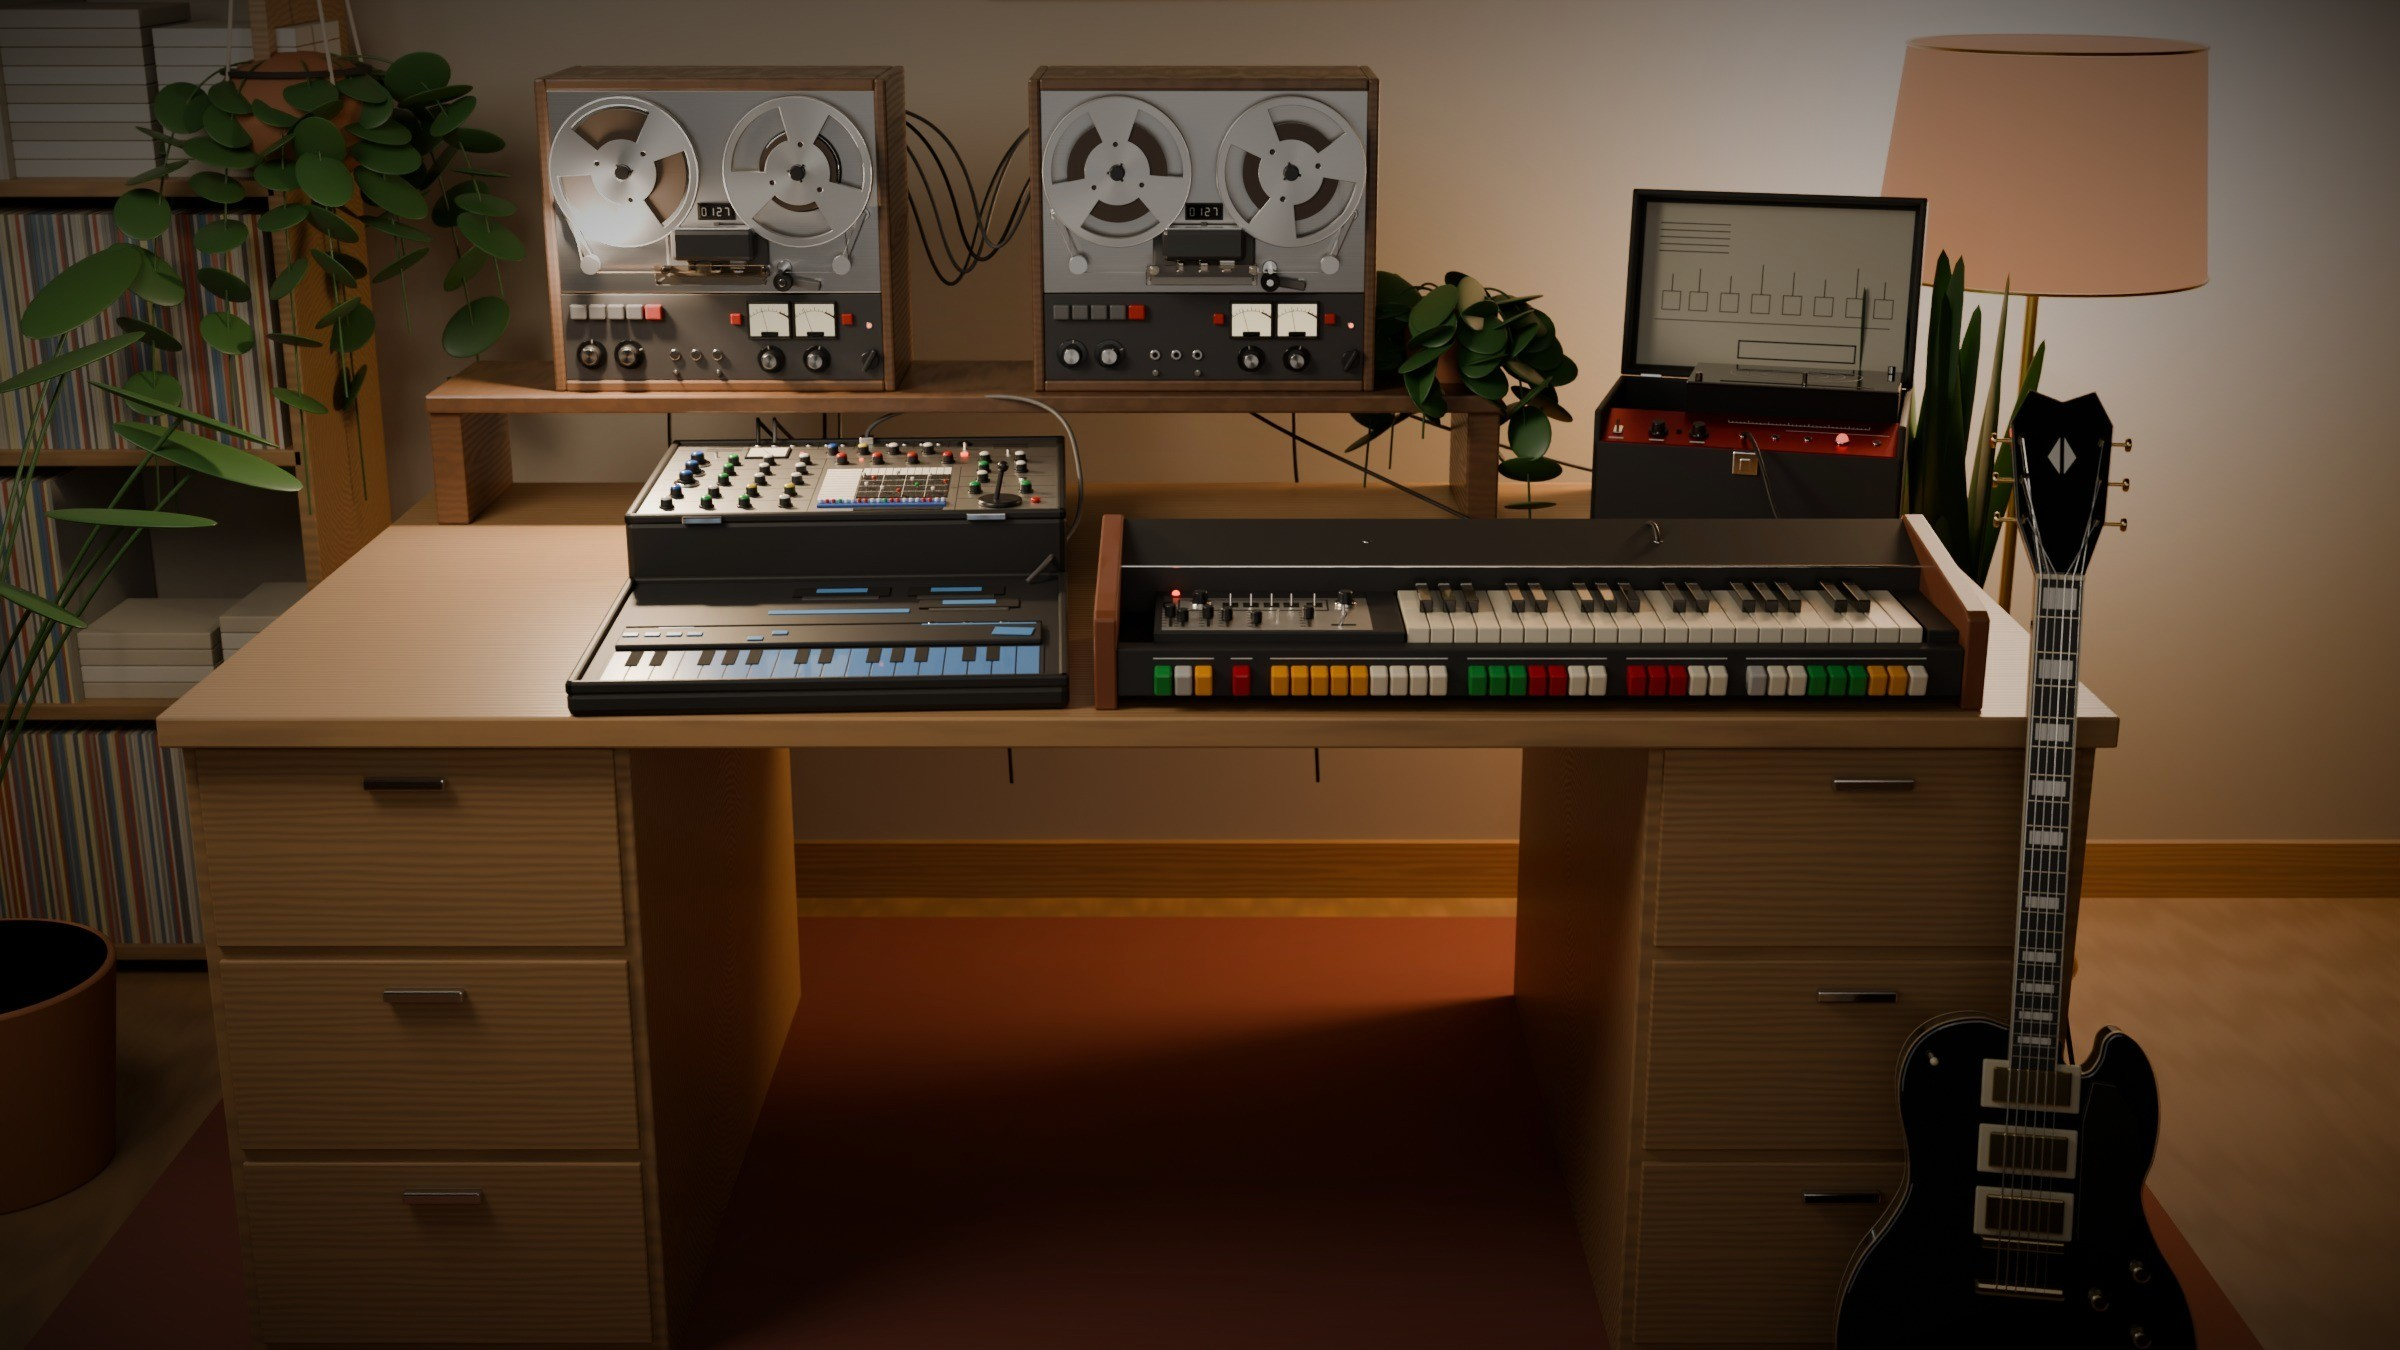
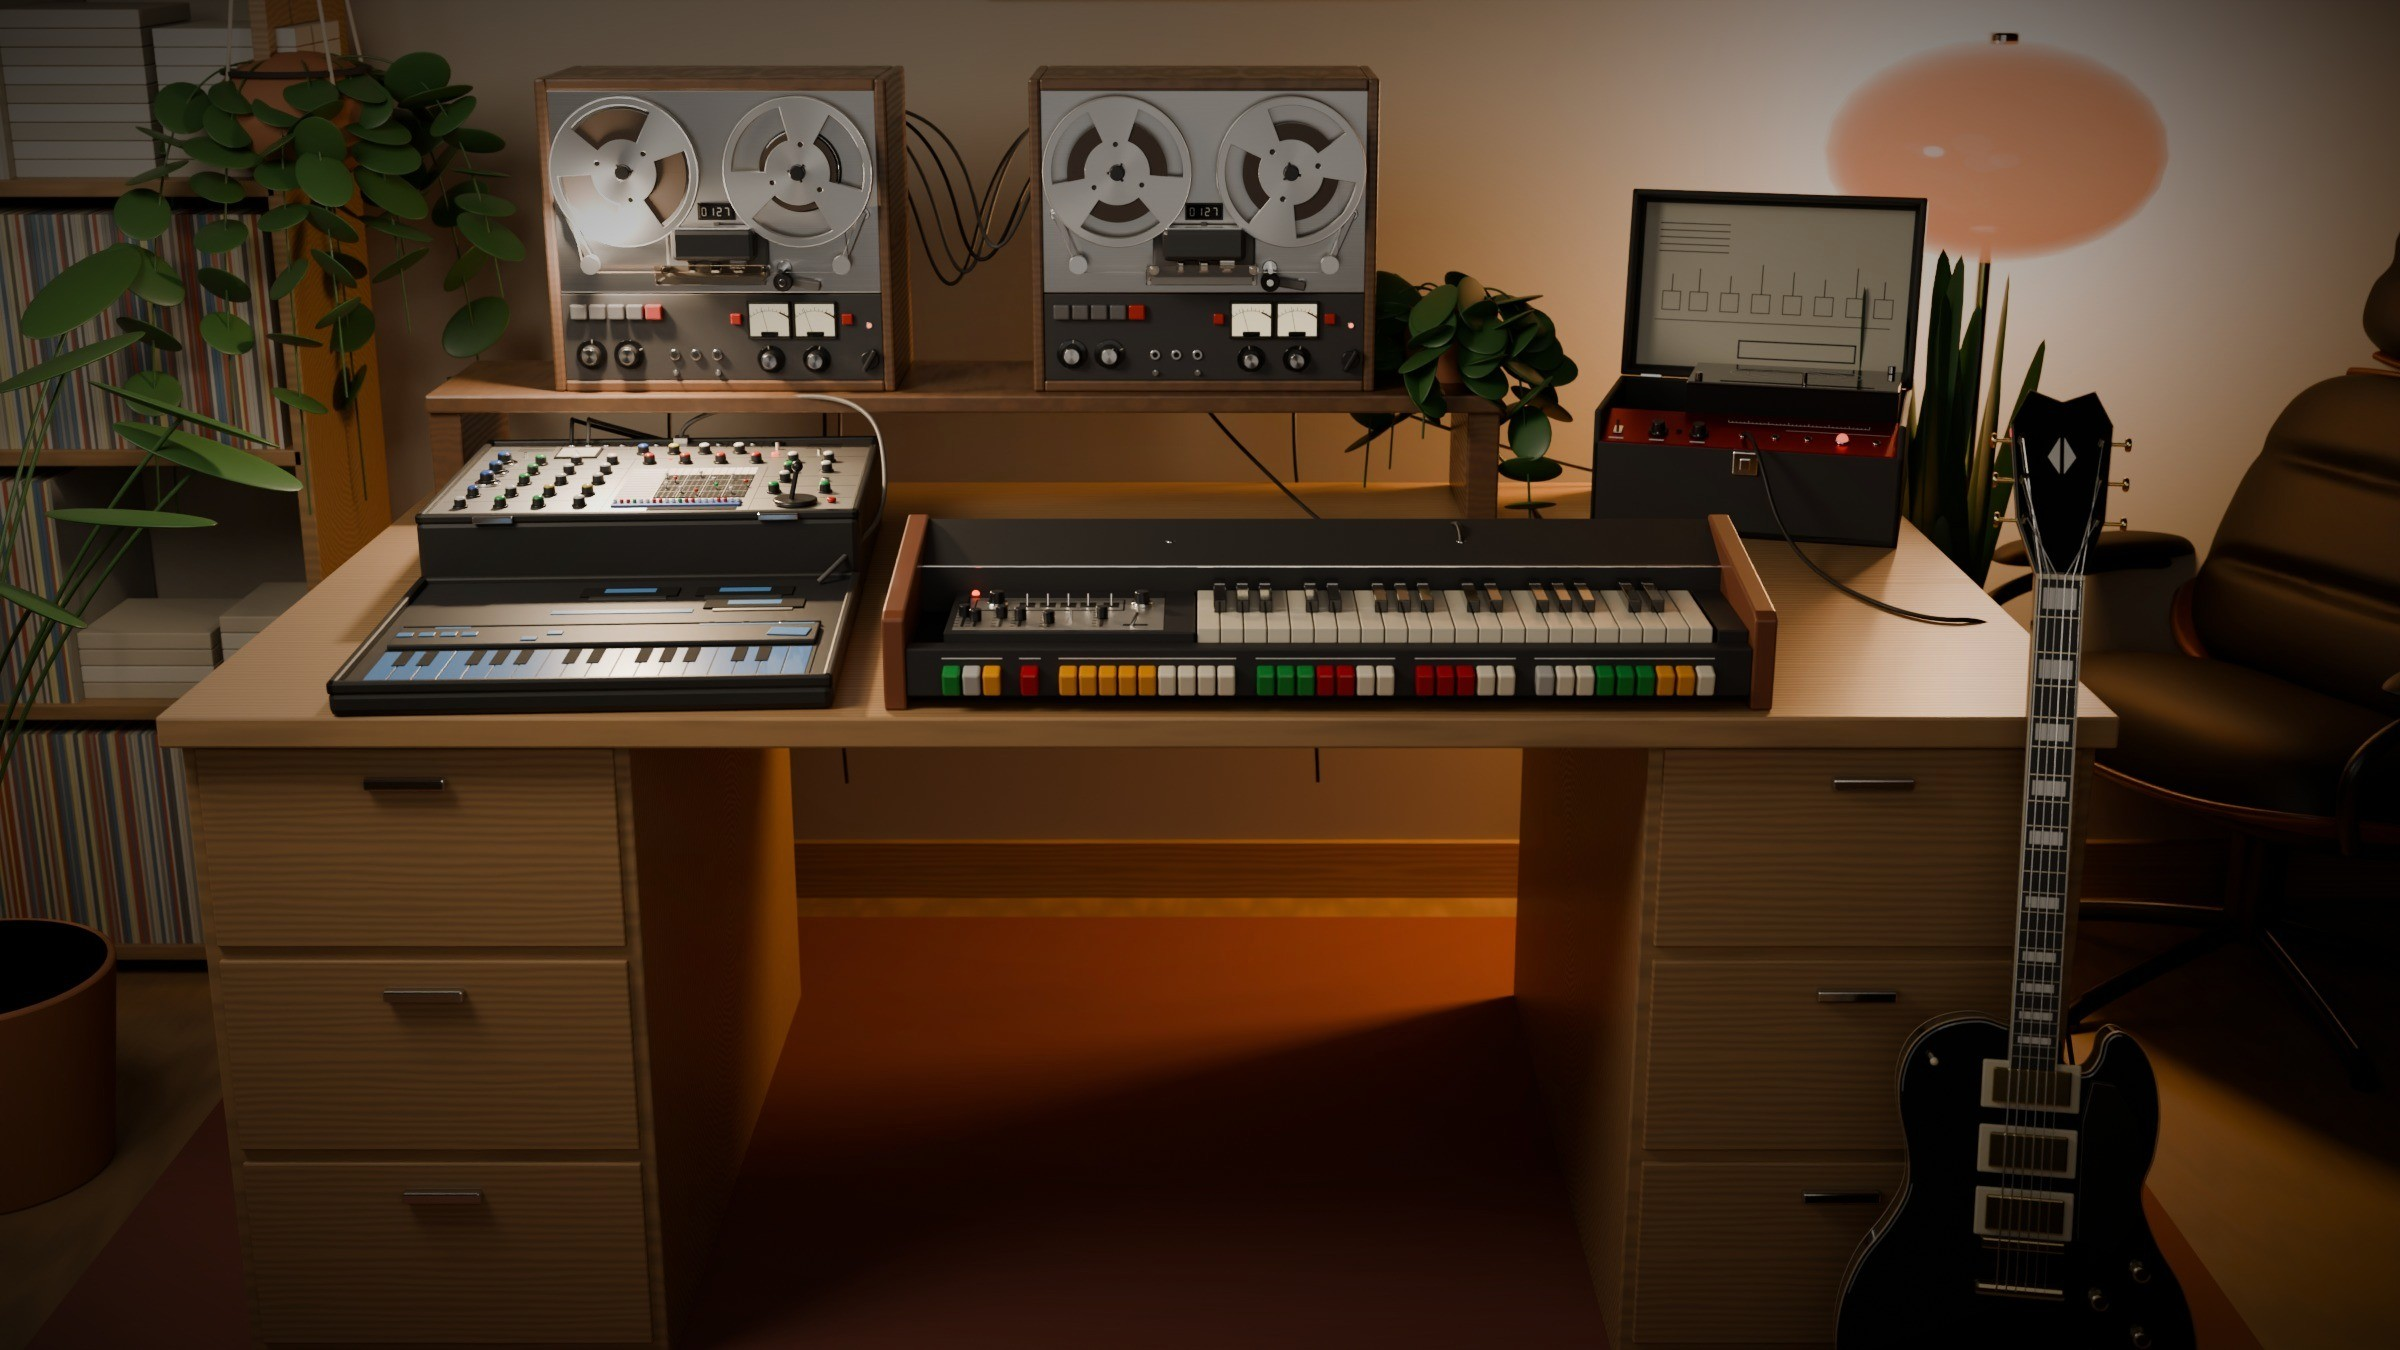
Site: story image, round 3 (owner's notes, 31 Oct)
Both synths moved left so the desk isn't right-heavy. A mid-century lounge chair, unbranded,
peeking in at the back right, built from curved surfaces: dished rosewood shells round soft
pleated leather cushions, curved arms and base (the first, box-built one read rigid). The
drum-shade lamp replaced by an orange glass mushroom floor lamp; the bulb doesn't light its
own shade or the chair beside it, so the glass reads orange and the leather black.

diff --git a/site/renders/studio.py b/site/renders/studio.py
@@ -1258,28 +1258,184 @@ def tape_cross3():
 
 
 def floor_lamp70(m, x, y):
-    """A 1970s floor lamp: a weighted brass base, a slim stem, a big burnt-orange fabric drum
-    shade glowing from the bulb inside (owner, 31 Oct 2026: "soft, diffuse, from a 70s style
-    lamp"). The shade casts no shadow, so its light leaves it soft, as through the fabric."""
-    brass = C.clay("lamp70_brass", rgb=(0.62, 0.45, 0.20), rough=0.3, metallic=1.0)
-    C.cylinder("lamp70_base", 150, 22, (x, y, 11), brass, segs=64, bevel=5, r2=130)
-    C.cylinder("lamp70_stem", 9, 1000, (x, y, 510), brass, segs=24)
-    shade_m = C.clay("lamp70_shade", rgb=(0.30, 0.09, 0.02), rough=0.95)
-    p = shade_m.node_tree.nodes["Principled BSDF"]
-    p.inputs["Emission Color"].default_value = (1.0, 0.30, 0.05, 1)
-    p.inputs["Emission Strength"].default_value = 1.5
-    shade = C.cylinder("lamp70_shade", 220, 300, (x, y, 1150), shade_m, segs=96, r2=190)
-    shade.visible_shadow = False
-    for z in (1001, 1299):
-        C.torus("lamp70_trim", 220 if z < 1150 else 190, 3, (x, y, z), brass, major=96, minor=8)
+    """A 1970s floor lamp: a chrome disc base and stem under a big orange glass mushroom shade,
+    glowing from the bulb inside (owner, 31 Oct 2026: "a more 70s lamp: orange glass maybe").
+    The glass casts no shadow, so the light leaves it soft and warm."""
+    chrome = C.clay("lamp70_chrome", 0.8, 0.12, metallic=1.0)
+    C.cylinder("lamp70_base", 170, 18, (x, y, 9), chrome, segs=64, bevel=5, r2=150)
+    C.cylinder("lamp70_stem", 10, 1080, (x, y, 550), chrome, segs=24)
+    glass = bpy.data.materials.new("lamp70_glass")
+    glass.use_nodes = True
+    p = glass.node_tree.nodes["Principled BSDF"]
+    p.inputs["Base Color"].default_value = (1.0, 0.30, 0.03, 1)
+    p.inputs["Roughness"].default_value = 0.12
+    p.inputs["Coat Weight"].default_value = 0.6
+    p.inputs["Emission Color"].default_value = (1.0, 0.20, 0.01, 1)
+    p.inputs["Emission Strength"].default_value = float(os.environ.get("IV_LAMP70_GLOW", "1.8"))
+    dome = C.sphere("lamp70_shade", 1.0, (x, y, 1150), glass)
+    dome.scale = (230, 230, 150)
+    dome.visible_shadow = False
+    C.cylinder("lamp70_cap", 22, 16, (x, y, 1302), chrome, segs=32, bevel=4)
     ld = bpy.data.lights.new("lamp70", "POINT")
     ld.energy = C.watts(float(os.environ.get("IV_LAMP70_W", "100")))
-    ld.color = (1.0, 0.66, 0.38)
-    ld.shadow_soft_size = 160
+    ld.color = (1.0, 0.55, 0.24)
+    ld.shadow_soft_size = 120
     ob = bpy.data.objects.new("lamp70", ld)
     C.link(ob)
-    ob.location = (x, y, 1140)
+    ob.location = (x, y, 1120)
+    ob.visible_camera = False
+    # the bulb doesn't light its own shade (lit from 15 cm it clipped to white); the glass glows
+    # orange by itself, the bulb lights the room
+    excl = bpy.data.collections.new("lamp70_shade_only")
+    excl.objects.link(dome)
+    excl.collection_objects[0].light_linking.link_state = "EXCLUDE"
+    ob.light_linking.receiver_collection = excl
     return ob
+
+
+def _squircle(w, d, a, n=4.0):
+    """A point on the rounded-rectangle (superellipse) outline w x d at angle a."""
+    c, sn = math.cos(a), math.sin(a)
+    return (w / 2 * math.copysign(abs(c) ** (2 / n), c), d / 2 * math.copysign(abs(sn) ** (2 / n), sn))
+
+
+def _pad(name, w, d, top, bottom, mat, n=4.0, rings=16, segs=96, subsurf=2):
+    """A smooth surface over a rounded-rectangle plan: top(x, y, t) gives the height at a point
+    (t runs 0 at the centre to 1 at the rim); bottom(...) closes it into a solid (a cushion),
+    or None leaves a sheet to thicken (a shell)."""
+    bm = bmesh.new()
+    def rings_of(fz, last):
+        out = []
+        for i in range(1, last + 1):
+            t = i / rings
+            row = []
+            for j in range(segs):
+                bx, by = _squircle(w, d, 2 * math.pi * j / segs, n)
+                row.append(bm.verts.new((t * bx, t * by, fz(t * bx, t * by, t))))
+            out.append(row)
+        return out
+    c_top = bm.verts.new((0, 0, top(0, 0, 0)))
+    tr = rings_of(top, rings)
+    def skin(c, rs, flip):
+        for j in range(segs):
+            f = (c, rs[0][j], rs[0][(j + 1) % segs])
+            bm.faces.new(f[::-1] if flip else f)
+        for i in range(len(rs) - 1):
+            for j in range(segs):
+                f = (rs[i][j], rs[i + 1][j], rs[i + 1][(j + 1) % segs], rs[i][(j + 1) % segs])
+                bm.faces.new(f[::-1] if flip else f)
+    skin(c_top, tr, False)
+    if bottom:
+        c_bot = bm.verts.new((0, 0, bottom(0, 0, 0)))
+        br = rings_of(bottom, rings - 1) + [tr[-1]]
+        skin(c_bot, br, True)
+    bmesh.ops.recalc_face_normals(bm, faces=bm.faces)
+    ob = C.mesh_obj(name, bm, mat, smooth=True)
+    if not bottom:
+        so = ob.modifiers.new("solidify", "SOLIDIFY")
+        so.thickness = 13.0
+        so.offset = -1.0
+    if subsurf:
+        sub = ob.modifiers.new("subsurf", "SUBSURF")
+        sub.levels = sub.render_levels = subsurf
+    return ob
+
+
+def lounge_chair(m, x, y, rot_deg):
+    """A mid-century lounge chair, unbranded (owner, 31 Oct 2026: peeking in from the right
+    edge; then "too blocky and rigid; the antithesis of the natural curves"): three dished
+    rosewood plywood shells (seat, back, headrest) curling up round soft, pleated black leather
+    cushions that roll over their top edges, curved cast arms with leather pads, a five-star
+    swivel base. About 840 wide and high. Built facing -y, then turned by rot_deg about z."""
+    ply = finish(C.clay("lounge_rosewood", rgb=(0.17, 0.06, 0.03), rough=0.32, coat=0.4), bump=0.08, scale=2.0)
+    leather = finish(C.clay("lounge_leather", rgb=(0.010, 0.009, 0.008), rough=0.5, coat=0.0), bump=0.3,
+                     scale=3.0)
+    alu = C.clay("lounge_alu", 0.05, 0.35, metallic=0.7)
+    alu_edge = C.clay("lounge_alu_edge", 0.85, 0.18, metallic=1.0)
+    button = C.clay("lounge_button", 0.004, 0.45)
+    root = bpy.data.objects.new("lounge_chair", None)
+    C.link(root)
+    parts = []
+    def add(ob):
+        parts.append(ob)
+        return ob
+    def group_at(objs, loc, tilt):
+        e = bpy.data.objects.new("lounge_sub", None)
+        C.link(e)
+        e.location = loc
+        e.rotation_euler = (math.radians(tilt), 0, 0)
+        for o in objs:
+            o.parent = e
+            parts.remove(o)
+        parts.append(e)
+        return e
+
+    def section(name, w, d, h, curl, pleats, roll=0.0):
+        """A dished shell and its cushion, lying flat (cushion up +z, +y toward the shell's
+        top edge). The shell's rim curls up, most along the sides; the cushion swells, rolls
+        over the top edge by `roll`, and is tucked along each pleat (fractions of d)."""
+        def shell_z(px, py, t):
+            side = abs(px) / (w / 2)
+            return curl * t ** 4 * (0.3 + 0.7 * side ** 2) + 18 * (2 * py / d) ** 2
+        objs = [add(_pad(f"{name}_shell", w, d, shell_z, None, ply, n=4.5))]
+        cw, cd = w - 34, d - 16
+        def tuck(py):
+            return sum(math.exp(-((py - (p - 0.5) * cd) / 14.0) ** 2) for p in pleats)
+        def cush_top(px, py, t):
+            swell = h * (1 - t ** 5) ** 0.45
+            over = roll * max(0.0, py / (cd / 2)) ** 3 * (1 - t ** 8) ** 0.3
+            return 14 + h * 0.32 + swell + over - 0.28 * h * tuck(py) * (1 - t ** 4)
+        def cush_bot(px, py, t):
+            return 14 + h * 0.32 - h * 0.30 * (1 - t ** 6) ** 0.4
+        objs.append(add(_pad(f"{name}_cush", cw, cd, cush_top, cush_bot, leather, n=4.0)))
+        for p in pleats:   # the buttons along each tuck
+            py = (p - 0.5) * cd
+            for k in (-1, 0, 1):
+                px = k * cw * 0.3
+                objs.append(add(C.sphere(f"{name}_button", 5, (px, py, cush_top(px, py, 0.3) - 1), button)))
+        return objs
+
+    # the five-star base: curved cast legs, dark with polished edges, on glides
+    for k in range(5):
+        a = 2 * math.pi * k / 5 - math.pi / 2
+        ca, sa = math.cos(a), math.sin(a)
+        add(cable(f"lounge_leg{k}", [(ca * 30, sa * 30, 95), (ca * 160, sa * 160, 70), (ca * 300, sa * 300, 30),
+                                     (ca * 320, sa * 320, 18)], 15, alu))
+        add(cable(f"lounge_leg_edge{k}", [(ca * 40, sa * 40, 108), (ca * 160, sa * 160, 84), (ca * 300, sa * 300, 44)],
+                  3, alu_edge))
+        add(C.cylinder("lounge_glide", 17, 12, (ca * 322, sa * 322, 7), alu, segs=20))
+    add(C.cylinder("lounge_column", 38, 190, (0, 0, 175), alu, segs=32, bevel=4))
+    # the seat (front a little higher), the back and the headrest stood up and reclined
+    group_at(section("lounge_seat", 680, 610, 125, 80, (0.62,)), (0, 0, 265), -10)
+    group_at(section("lounge_back", 700, 520, 100, 85, (0.33, 0.66), roll=26), (0, 285, 575), 90 - 28)
+    group_at(section("lounge_head", 620, 290, 90, 70, (0.5,), roll=30), (0, 470, 935), 90 - 22)
+    # the arms: a curved cast arm each side, from the back shell forward and down to the seat,
+    # with a soft leather pad on top
+    for sx in (-1, 1):
+        ax = sx * 352
+        add(cable(f"lounge_arm{sx}", [(ax, 240, 500), (ax, 120, 540), (ax, -100, 538), (ax, -235, 500),
+                                      (ax * 0.98, -255, 430), (ax * 0.95, -215, 360)], 13, alu))
+        pad = add(_pad(f"lounge_arm_pad{sx}", 82, 400,
+                       lambda px, py, t: 30 * (1 - t ** 4) ** 0.5, lambda px, py, t: -6 * (1 - t ** 6) ** 0.5,
+                       leather, n=3.0, rings=8, segs=48))
+        pad.location = (ax, -15, 555)
+        pad.rotation_euler = (math.radians(-3), 0, 0)
+    for o in parts:
+        o.parent = root
+    root.location = (x, y, 0)
+    root.rotation_euler = (0, 0, math.radians(rot_deg))
+    # the lamp beside it would flood the black leather to grey from half a metre: keep the
+    # chair out of its light, so it reads dark against the glow
+    excl = bpy.data.collections.get("lamp70_shade_only")
+    if excl:
+        def walk(o):
+            for c in o.children:
+                if c.type in ("MESH", "CURVE"):
+                    excl.objects.link(c)
+                    excl.collection_objects[-1].light_linking.link_state = "EXCLUDE"
+                walk(c)
+        walk(root)
+    return root
 
 
 def leafy(m, name, base, rng, n, h=(400, 900), spread=(150, 380), leaf=(110, 38, 6), trail=False):
@@ -1368,12 +1524,13 @@ def tape_cross4():
     xa, xb = sx0 - (A77_W + gap) / 2, sx0 + (A77_W + gap) / 2
     ref = deck_pair(m, (xa, xb), 155.0, z0=rz)
     # the AKS open flat, its panel half's far edge just under the shelf
-    syn = gear.place(gear.synthi(), (-330, -230, DESK_Z), (0, 0, 3))
+    syn = gear.place(gear.synthi(), (-560, -230, DESK_Z), (0, 0, 3))
     echo = gear.place(gear.tape_echo(), (720, 70, DESK_Z), (0, 0, -16))
     gtr = gear.place(gear.guitar(), (850, -775, 262), (75, 0, -10))
     # the SH-2000 (owner, 31 Oct: the synth beside the EP-3 in the Met's photo), front right
-    sh = gear.place(gear.sh2000(), (390, -618, DESK_Z), (0, 0, 0))
-    floor_lamp70(m, 1190.0, 520.0)
+    sh = gear.place(gear.sh2000(), (185, -618, DESK_Z), (0, 0, 0))
+    floor_lamp70(m, 1150.0, 620.0)
+    lounge_chair(m, 1540.0, 400.0, -65.0)
     plants70(m, sx0 + 660.0, rz)
     # leads (owner, 31 Oct: the synth and keyboard need cables): the keyboard lid's multi-way
     # lead into the synth's side, the synth's two outputs back to deck A, the guitar into the
